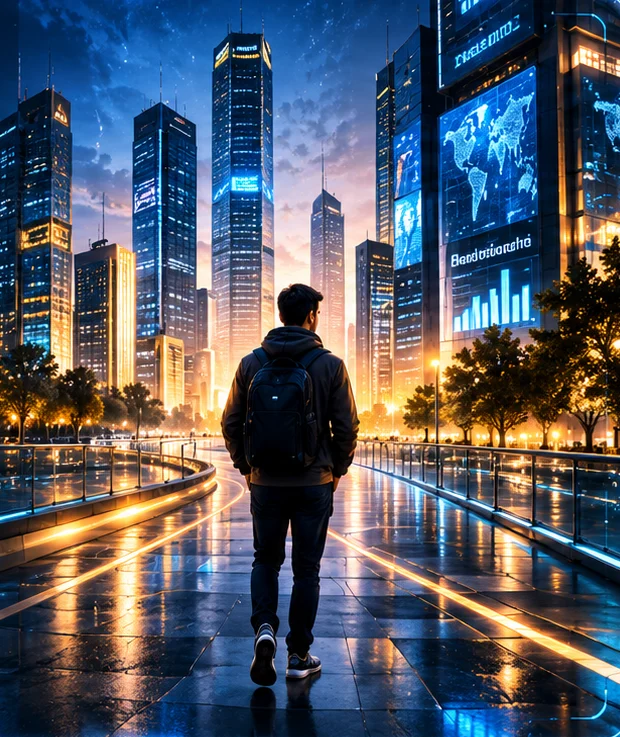
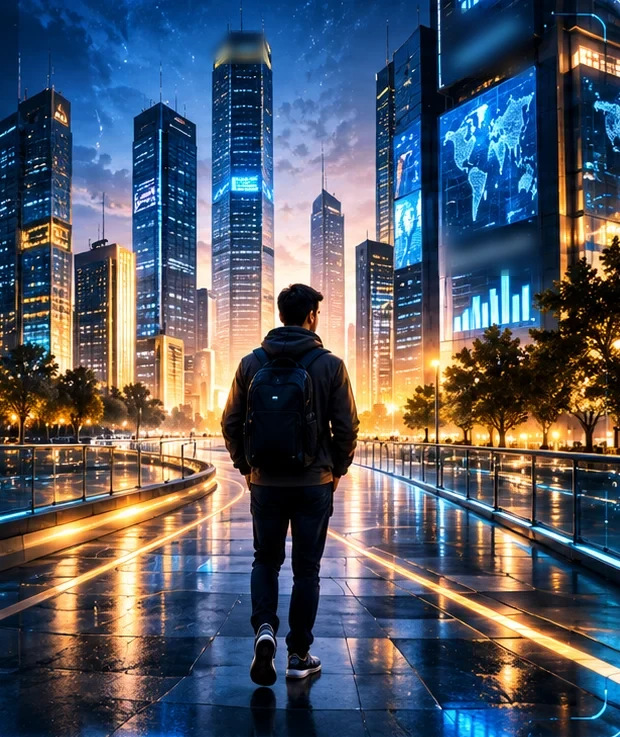
Lock the BeBeyond split layout across Home, About, Skills and Experience
Text on the left, artwork filling the right edge to edge at full panel
height, and a full-width strip below; stacked with the image first on
tablet and phone. Removes the numbered section prefixes from the kickers,
uses a wider About globe crop with the quote card on the image, softens
baked sign lettering in the Experience city image, and drops the unused
about-globe.webp.

Claude-Session: https://claude.ai/code/session_01AU5zbZtAWEYqmaeob7qkq7

Changed region(s): [[0.7048, 0.0, 0.8581, 0.1248], [0.7048, 0.2809, 0.8581, 0.3745], [0.3371, 0.0312, 0.429, 0.0936]]

diff --git a/dashboard-site/index.html b/dashboard-site/index.html
@@ -145,22 +145,22 @@
   <div class="wrap">
     <div class="panel about">
       <div class="about-copy">
-        <p class="kicker"><span>02.</span> About me</p>
+        <p class="kicker">About me</p>
         <h2 id="about-title" class="big-title">A curious <b>problem solver</b></h2>
         <p class="about-text">I enjoy turning complex and real-world problems into practical, data-driven solutions. With a strong foundation in engineering and an MSc in Business Analytics, I combine analytical thinking, technology and business understanding to create meaningful impact in people's lives.</p>
         <p class="about-more">Outside the classroom: weekend volunteering with Save the Children in Pune, including teaching mathematics to children; Head Boy at higher secondary school; leading the college fashion show; and representing my college at cricket.</p>
         <span class="rule" aria-hidden="true"></span>
       </div>
       <div class="about-visual">
-        <img src="assets/img/about-globe.webp" width="910" height="460" alt="" loading="lazy" decoding="async">
+        <img src="assets/img/about-globe-wide.webp" width="922" height="545" alt="" loading="lazy" decoding="async">
         <canvas class="sparks" data-scene="sparks" data-dpr="1" data-focus="0.5,0.45" aria-hidden="true"></canvas>
         <p class="sr-only">A glowing globe linked to data, analytics, AI, business impact, people and solutions.</p>
+        <figure class="quote-card">
+          <blockquote>From data to impact.</blockquote>
+          <span class="rule" aria-hidden="true"></span>
+          <figcaption>Analytics · AI · Solutions</figcaption>
+        </figure>
       </div>
-      <figure class="quote-card">
-        <blockquote>From data to impact.</blockquote>
-        <span class="rule" aria-hidden="true"></span>
-        <figcaption>Analytics · AI · Solutions</figcaption>
-      </figure>
       <div class="about-cards">
         <article class="mini-card">
           <h3><svg><use href="#i-target"/></svg>My Mindset</h3>
@@ -198,7 +198,7 @@
 <!-- 03 PROJECTS -->
 <section class="sec" id="projects" aria-labelledby="projects-title">
   <div class="wrap">
-    <div class="sec-head"><div><p class="kicker"><span>03.</span> Projects</p><h2 id="projects-title" class="big-title">Featured <b>projects</b></h2></div><a class="sec-link" href="https://github.com/basant-kumarr?tab=repositories" target="_blank" rel="noopener">View All Projects <svg><use href="#i-arrow"/></svg></a></div>
+    <div class="sec-head"><div><p class="kicker">Projects</p><h2 id="projects-title" class="big-title">Featured <b>projects</b></h2></div><a class="sec-link" href="https://github.com/basant-kumarr?tab=repositories" target="_blank" rel="noopener">View All Projects <svg><use href="#i-arrow"/></svg></a></div>
     <div class="features">
 
       <article class="panel feature" aria-labelledby="f-bb">
@@ -317,12 +317,17 @@
   <div class="wrap">
     <div class="panel skills">
       <div class="skills-head">
-        <p class="kicker"><span>04.</span> Skills</p>
+        <p class="kicker">Skills</p>
         <h2 id="skills-title" class="big-title">Skills that <b>create impact</b></h2>
         <p class="sub">Five capabilities that work as one system: understand the problem, analyse the data, model it, build the product, and keep learning.</p>
+        <p class="sk-thesis">I don't just know tools. I know how to use them to solve <b>business problems</b>.</p>
+      </div>
+      <div class="sk-art">
+            <img src="assets/img/skills-core.webp" width="480" height="443" alt="" loading="lazy" decoding="async">
+            <canvas class="sparks" data-scene="sparks" data-dpr="1" data-focus="0.5,0.32" aria-hidden="true"></canvas>
+            <p class="sr-only">A glowing brain on a holographic pedestal reading Data, Insights, Solutions, Impact.</p>
       </div>
       <div class="skills-grid">
-        <div class="sk-col sk-left">
         <article class="sk-card sk-a">
           <p class="sk-n">01</p>
           <h3><svg><use href="#i-search"/></svg>Business Analysis</h3>
@@ -341,16 +346,6 @@
           <p class="sk-why">Models that predict something useful and can explain themselves.</p>
           <ul class="sk-chips" role="list"><li><svg class="c-ml"><use href="#i-brain"/></svg>Machine Learning</li><li><svg class="c-xgb"><use href="#i-tree"/></svg>XGBoost</li><li><svg class="c-shap"><use href="#i-hbars"/></svg>SHAP</li><li><svg class="c-skl"><use href="#i-nodes"/></svg>Scikit-learn</li><li>Model Evaluation</li><li><svg><use href="#i-trend"/></svg>Forecasting</li></ul>
         </article>
-        </div>
-        <div class="sk-core">
-          <div class="sk-core-art">
-            <img src="assets/img/skills-core.webp" width="480" height="443" alt="" loading="lazy" decoding="async">
-            <canvas class="sparks" data-scene="sparks" data-dpr="1" data-focus="0.5,0.32" aria-hidden="true"></canvas>
-          </div>
-          <p class="sk-thesis">I don't just know tools. I know how to use them to solve <b>business problems</b>.</p>
-          <p class="sr-only">A glowing brain on a holographic pedestal reading Data, Insights, Solutions, Impact.</p>
-        </div>
-        <div class="sk-col sk-right">
         <article class="sk-card sk-d">
           <p class="sk-n">04</p>
           <h3><svg><use href="#i-cube"/></svg>Product &amp; Engineering</h3>
@@ -373,7 +368,6 @@
             <li><b>Google Project Management Certificate</b><span>Google</span></li>
           </ul>
         </article>
-        </div>
       </div>
     </div>
   </div>
@@ -389,7 +383,7 @@
       </div>
       <div class="exp-main">
         <div class="exp-head">
-          <p class="kicker"><span>05.</span> Experience</p>
+          <p class="kicker">Experience</p>
           <h2 id="exp-title" class="big-title">Professional <b>experience</b></h2>
         </div>
         <ol class="timeline">
@@ -446,7 +440,7 @@
     <div class="panel journey-panel">
       <div class="journey-top">
         <div class="journey-intro">
-          <p class="kicker"><span>06.</span> Education &amp; journey</p>
+          <p class="kicker">Education &amp; journey</p>
           <h2 id="edu-title" class="big-title">Different experiences <b>one journey</b></h2>
           <p class="sub">A journey of continuous learning, real-world experience and meaningful growth, combining engineering, data and business analytics to create a smarter, more impactful future.</p>
           <blockquote class="j-quote">Every experience adds a new skill, a new perspective and a stronger version of me.</blockquote>

diff --git a/dashboard-site/assets/css/style.css b/dashboard-site/assets/css/style.css
@@ -504,6 +504,40 @@ svg{width:1em;height:1em;flex:none}
   .pd-reflect .actions .btn{flex:1 1 auto}
 }
 
+/* ---------- locked split layout (matches the BeBeyond project panel) ----------
+   Text on the left, artwork filling the right edge to edge at full height,
+   and a full-width strip along the bottom. Used by Home, About, Skills and
+   Experience. */
+.hero,.about,.skills{grid-template-columns:minmax(0,.82fr) minmax(0,1.18fr);gap:0;padding:0;align-items:stretch;min-height:0}
+.hero{grid-template-areas:"copy visual" "stats stats";grid-template-rows:auto auto}
+.hero-copy{padding:40px 30px 36px 44px;align-self:center}
+.hero-visual,.about-visual,.sk-art,.exp-visual{position:relative;overflow:hidden;margin:0;align-self:stretch}
+.hero-visual{min-height:560px}
+.hero-visual picture{position:absolute;inset:0}
+.hero-visual img,.about-visual>img,.sk-art img,.exp-visual img{position:absolute;inset:0;top:0;width:100%;height:100%;max-height:none;aspect-ratio:auto;border-radius:0;object-fit:cover;-webkit-mask-image:linear-gradient(90deg,transparent 0,#000 16%);mask-image:linear-gradient(90deg,transparent 0,#000 16%);-webkit-mask-composite:source-over;mask-composite:add}
+.hero-visual img{object-position:66% 50%}
+.statbar{margin:0;border:0;border-top:1px solid var(--line);background:rgba(2,8,22,.55);border-radius:0;box-shadow:none}
+.about{display:grid;grid-template-areas:"copy visual" "cards cards"}
+.about-copy{padding:40px 30px 36px 40px;justify-content:center}
+.about-visual{min-height:540px}
+.about-visual>img{object-position:78% 50%;-webkit-mask-image:linear-gradient(90deg,transparent 0,rgba(0,0,0,.25) 14%,#000 38%);mask-image:linear-gradient(90deg,transparent 0,rgba(0,0,0,.25) 14%,#000 38%)}
+.about-visual .quote-card{position:absolute;right:22px;bottom:22px;z-index:2;max-width:250px;padding:18px 20px;background:linear-gradient(180deg,#0a1a3c,#050d22);box-shadow:0 18px 40px rgba(0,0,0,.55)}
+.about-visual .quote-card blockquote{font-size:24px}
+.about-visual .quote-card blockquote::before{font-size:44px;margin-bottom:8px}
+.about-visual .quote-card .rule{margin:14px 0 12px}
+.about-cards{padding:24px 36px 30px;border-top:1px solid var(--line);background:rgba(2,8,22,.55)}
+.skills{display:grid;grid-template-areas:"head art" "cards cards"}
+.skills-head{grid-area:head;margin:0;padding:40px 30px 36px 40px;display:flex;flex-direction:column;justify-content:center}
+.skills-head .sk-thesis{text-align:left;max-width:30ch;margin-top:22px;font-size:20px}
+.sk-art{grid-area:art;min-height:460px}
+.sk-art img{object-position:50% 38%;-webkit-mask-image:linear-gradient(90deg,transparent 0,#000 16%),linear-gradient(180deg,#000 84%,transparent);mask-image:linear-gradient(90deg,transparent 0,#000 16%),linear-gradient(180deg,#000 84%,transparent);-webkit-mask-composite:source-in;mask-composite:intersect}
+.skills-grid{grid-area:cards;grid-template-columns:repeat(3,minmax(0,1fr));grid-template-areas:none;gap:16px;padding:24px 36px 30px;border-top:1px solid var(--line);background:rgba(2,8,22,.55)}
+.exp{grid-template-columns:minmax(0,1.12fr) minmax(0,.88fr)}
+.exp-visual img{object-position:62% 50%}
+.timeline>li{grid-template-columns:132px minmax(0,1fr);grid-template-areas:"date body" "wm body" "tag body";column-gap:22px;row-gap:10px}
+.tl-date{grid-area:date}.wm{grid-area:wm}.tl-body{grid-area:body}.tl-tag{grid-area:tag;justify-self:start}
+.wm{height:52px}
+
 /* ---------- responsive ---------- */
 @media (max-width:1240px){
   .hero{grid-template-columns:minmax(0,370px) minmax(0,1fr)}
@@ -624,4 +658,51 @@ svg{width:1em;height:1em;flex:none}
   html{scroll-behavior:auto}
   *,*::before,*::after{animation:none!important;transition:none!important}
   .js [data-reveal]{opacity:1;transform:none}
+}
+
+/* locked split layout: tablet and phone */
+@media (max-width:1240px){
+  .hero,.about,.skills{grid-template-columns:minmax(0,.82fr) minmax(0,1.18fr)}
+  .hero{grid-template-areas:"copy visual" "stats stats"}
+  .about{grid-template-areas:"copy visual" "cards cards"}
+  .quote-card{display:block}
+  .about-cards{grid-template-columns:1fr 1fr}
+  .timeline>li{grid-template-columns:120px minmax(0,1fr);grid-template-areas:"date body" "wm body" "tag body"}
+  .skills-grid{grid-template-columns:1fr 1fr}
+}
+@media (max-width:1080px){
+  .hero,.about,.skills,.exp{grid-template-columns:1fr}
+  .hero{grid-template-areas:"visual" "copy" "stats";padding:0}
+  .hero-visual{margin:0;min-height:0;height:380px}
+  .hero-visual img{-webkit-mask-image:linear-gradient(180deg,#000 78%,transparent);mask-image:linear-gradient(180deg,#000 78%,transparent);object-position:50% 50%}
+  .hero-copy{padding:8px 28px 26px}
+  .statbar{grid-template-columns:1fr 1fr}
+  .about{grid-template-areas:"visual" "copy" "cards";padding:0}
+  .about-visual{min-height:0}
+  .about-visual>img{position:relative;height:340px;object-position:48% 50%;-webkit-mask-image:linear-gradient(180deg,#000 80%,transparent);mask-image:linear-gradient(180deg,#000 80%,transparent)}
+  .about-visual .quote-card{position:relative;right:auto;bottom:auto;max-width:none;margin:-40px 24px 0}
+  .about-copy{padding:24px 28px 26px}
+  .about-cards{grid-template-columns:1fr;padding:22px 24px 26px}
+  .about-cards .colourful{grid-column:auto}
+  .skills{grid-template-areas:"art" "head" "cards";padding:0}
+  .sk-art{min-height:0;height:360px}
+  .sk-art img{-webkit-mask-image:linear-gradient(180deg,#000 80%,transparent);mask-image:linear-gradient(180deg,#000 80%,transparent);-webkit-mask-composite:source-over;mask-composite:add;object-position:50% 45%}
+  .skills-head{padding:8px 28px 24px}
+  .skills-head .sk-thesis{max-width:none}
+  .skills-grid{padding:22px 24px 26px}
+  .exp-visual{height:340px}
+  .exp-visual img{object-position:50% 40%;-webkit-mask-image:linear-gradient(180deg,#000 70%,transparent);mask-image:linear-gradient(180deg,#000 70%,transparent)}
+}
+@media (max-width:760px){
+  .hero-visual{height:330px}
+  .hero-copy{padding:6px 16px 22px}
+  .statbar{grid-template-columns:1fr}
+  .about-visual>img{height:280px}
+  .about-visual .quote-card{margin:-30px 16px 0}
+  .about-copy,.skills-head{padding-left:16px;padding-right:16px}
+  .about-cards,.skills-grid{padding:18px 16px 22px}
+  .skills-grid{grid-template-columns:1fr}
+  .sk-art{height:300px}
+  .exp-visual{height:280px}
+  .timeline>li{grid-template-columns:1fr;grid-template-areas:"date" "wm" "body" "tag"}
 }

diff --git a/dashboard-site/swarm-drone-coordination.html b/dashboard-site/swarm-drone-coordination.html
@@ -129,7 +129,7 @@
     <section class="sec pd-sec" aria-labelledby="pd-overview">
       <div class="panel pd-panel pd-two">
         <div>
-          <p class="kicker"><span>01.</span> Overview</p>
+          <p class="kicker">Overview</p>
           <h2 id="pd-overview" class="pd-h2">Engineering a coordinated <b>response</b></h2>
         </div>
         <div class="pd-prose">
@@ -150,7 +150,7 @@
 
     <!-- C. CHALLENGE -->
     <section class="sec pd-sec" aria-labelledby="pd-challenge">
-      <div class="sec-head"><div><p class="kicker"><span>02.</span> The engineering challenge</p><h2 id="pd-challenge" class="pd-h2">Four problems to <b>solve together</b></h2></div></div>
+      <div class="sec-head"><div><p class="kicker">The engineering challenge</p><h2 id="pd-challenge" class="pd-h2">Four problems to <b>solve together</b></h2></div></div>
       <ol class="pd-grid4" role="list">
         <li class="panel pd-card"><span class="pd-n">01</span><svg><use href="#i-nodes"/></svg><h3>Coordinating multiple drones</h3><p>Operating several aircraft through one control approach instead of one pilot per drone.</p></li>
         <li class="panel pd-card"><span class="pd-n">02</span><svg><use href="#i-pin"/></svg><h3>Navigation and orientation</h3><p>Knowing where each drone is, and keeping it stable and correctly oriented in flight.</p></li>
@@ -161,7 +161,7 @@
 
     <!-- D. SYSTEM DESIGN + E. SPECIFICATIONS -->
     <section class="sec pd-sec" aria-labelledby="pd-system">
-      <div class="sec-head"><div><p class="kicker"><span>03.</span> System design</p><h2 id="pd-system" class="pd-h2">How the system was <b>designed</b></h2></div></div>
+      <div class="sec-head"><div><p class="kicker">System design</p><h2 id="pd-system" class="pd-h2">How the system was <b>designed</b></h2></div></div>
       <div class="pd-sys">
         <dl class="panel pd-panel pd-design">
           <div><dt><svg><use href="#i-team"/></svg>Centralised control</dt><dd>A single remote-control approach intended to manage multiple drones through a common control interface, built on Arduino-based control hardware.</dd></div>
@@ -193,7 +193,7 @@
 
     <!-- F. WORKFLOW -->
     <section class="sec pd-sec" aria-labelledby="pd-flow">
-      <div class="sec-head"><div><p class="kicker"><span>04.</span> Engineering workflow</p><h2 id="pd-flow" class="pd-h2">From problem to <b>recognition</b></h2></div></div>
+      <div class="sec-head"><div><p class="kicker">Engineering workflow</p><h2 id="pd-flow" class="pd-h2">From problem to <b>recognition</b></h2></div></div>
       <ol class="panel pd-panel pd-flow" role="list">
         <li><span class="pd-step">01</span><h3>Problem identification</h3><p>The potential role of coordinated drones in disaster response and essential-supply delivery.</p></li>
         <li><span class="pd-step">02</span><h3>System concept</h3><p>A centralised coordination approach and the components needed for navigation, communication and monitoring.</p></li>
@@ -207,7 +207,7 @@
     <section class="sec pd-sec" id="certificate" aria-labelledby="pd-cert">
       <div class="panel pd-panel pd-cert">
         <div class="pd-cert-copy">
-          <p class="kicker"><span>05.</span> Recognition</p>
+          <p class="kicker">Recognition</p>
           <h2 id="pd-cert" class="pd-h2">Recognised at the India Innovation <b>Challenge</b></h2>
           <p>The project received qualifying-round recognition in the DST &amp; Texas Instruments India Innovation Challenge Design Contest 2018, anchored by IIM Bangalore.</p>
           <p>The qualification came in 2018, two years before the project's completion; development continued as my Bachelor's final-year team project in 2019 – 2020. It was an important milestone in my undergraduate engineering journey, and in my interest in technology-driven solutions to practical problems.</p>
@@ -236,7 +236,7 @@
           <ul class="sk-chips" role="list"><li>Electronics &amp; telecommunication engineering</li><li>Hardware integration</li><li>Arduino-based control</li><li>GPS integration</li><li>Gyroscope integration</li><li>RF modules</li><li>Battery monitoring</li><li>Remote-control systems</li><li>System design</li><li>Engineering problem-solving</li></ul>
         </div>
         <div class="panel pd-panel pd-reflect">
-          <p class="kicker"><span>06.</span> Reflection</p>
+          <p class="kicker">Reflection</p>
           <h2 id="pd-reflect" class="pd-h2">Where engineering meets <b>real-world problems</b></h2>
           <p>This project was an important part of my undergraduate engineering journey. It challenged me to think about how hardware, navigation, monitoring and control could work together to address a practical problem.</p>
           <p>It strengthened my interest in engineering systems and technology-driven problem-solving, interests that still shape how I approach analytics and product work.</p>
